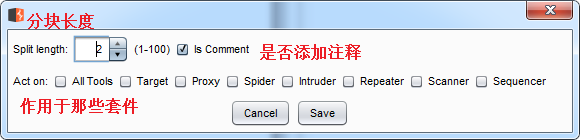
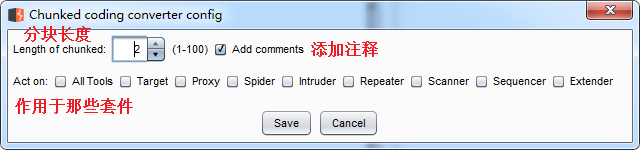
更新README图文

Changed region(s): [[0.0, 0.0, 1.0, 1.0], [0.3724, 0.7143, 0.6207, 0.9143]]

diff --git a/README.md b/README.md
@@ -1,4 +1,4 @@
-# chunked-coding-converter|Burp suite 分块传输辅助插件
+# Chunked coding converter
 
 本插件主要用于分块传输绕WAF，不了解分块传输绕WAF的请阅读文末的文章。
 
